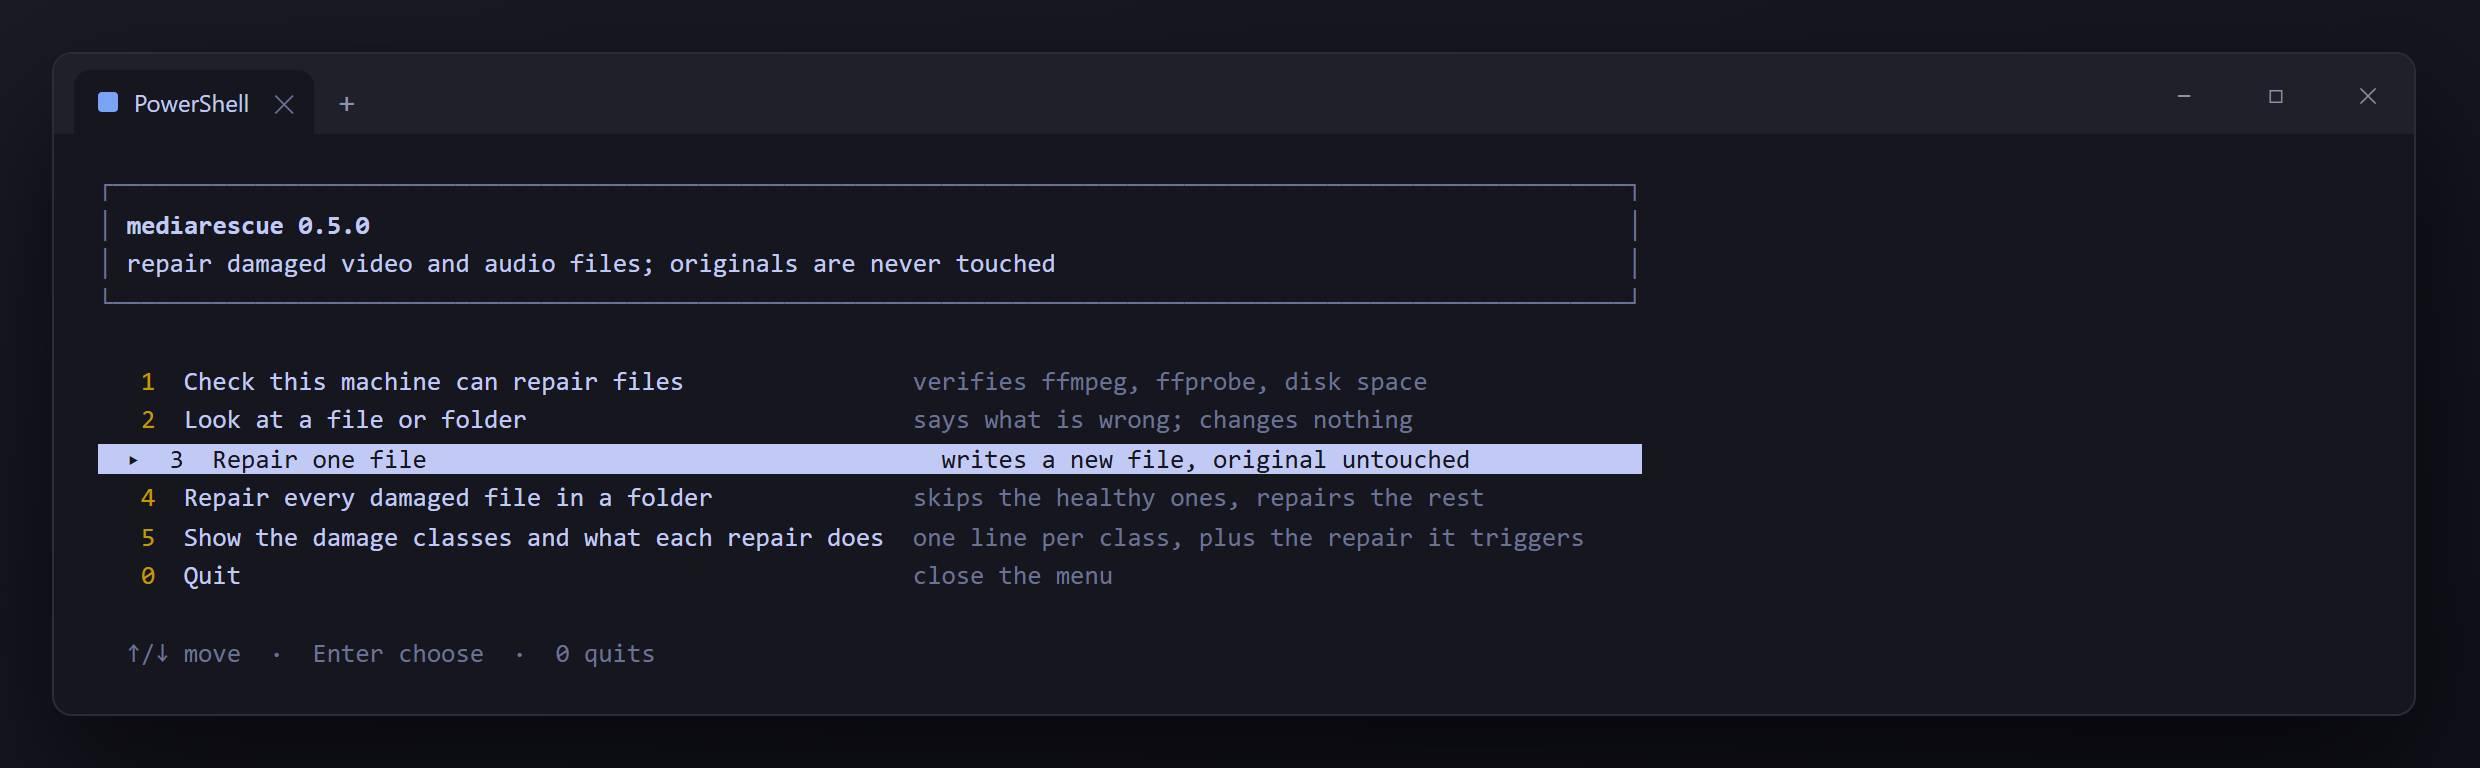
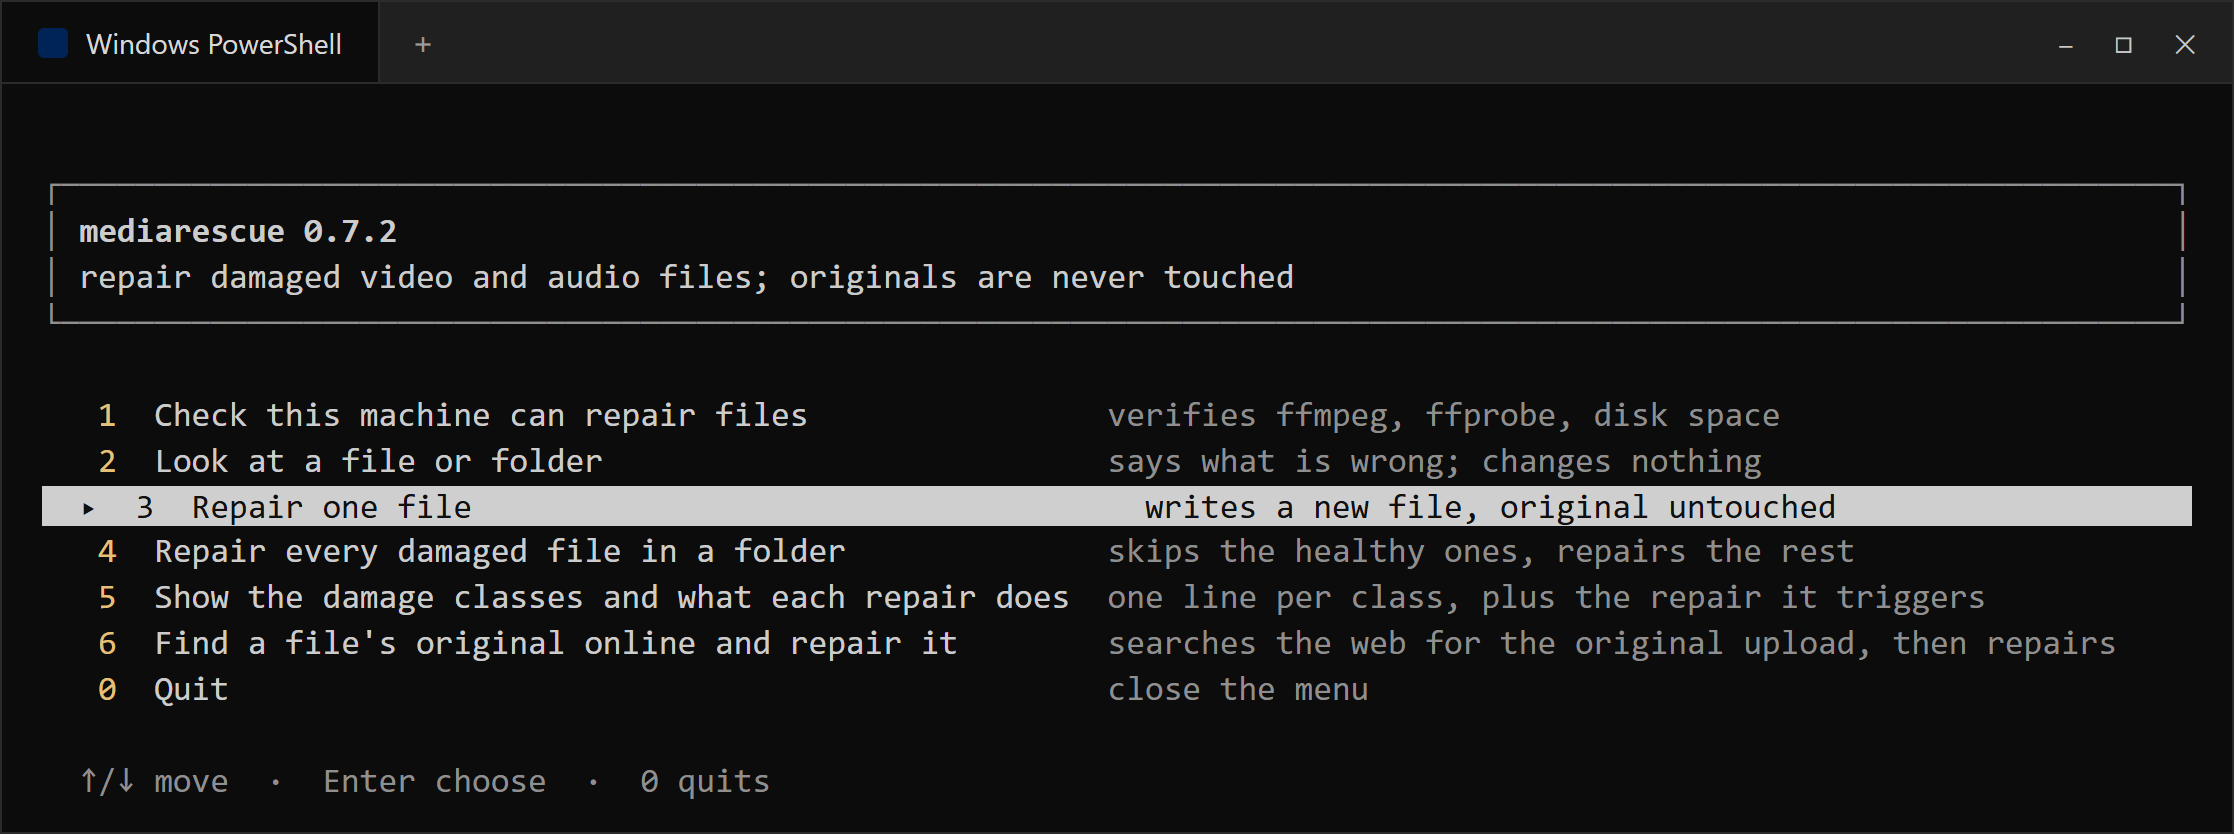
0.8.0: give the menu its arrow keys, and mean --out-dir for one file
The key reader existed, was tested, and was never handed to run_menu(): cmd_menu called it with no
keys argument, so a real terminal got the numbered prompt and the highlighted row never appeared.
The same kind of gap hid in --out-dir, which single-file repairs ignored, and in the Bing fallback,
which caught binascii.Error without importing binascii -- the handler raised NameError inside the
one path it existed to protect.

Also: python -m mediarescue works, --version says the name, --help ends with the first two commands
someone needs, and docs/terminal.png plus docs/menu.png are re-rendered from this build (the old
menu shot still said 0.5.0 and had no online-source row).

diff --git a/src/mediarescue/cli.py b/src/mediarescue/cli.py
@@ -112,8 +112,10 @@ def cmd_doctor(args) -> int:
 
 
 def cmd_menu(args) -> int:
-    from .menu import run_menu
-    return run_menu()
+    from .menu import make_key_reader, run_menu
+    # Without a key reader the menu still works, but only by typing a number and Enter. On a real
+    # terminal this is what makes the arrow keys and the highlighted row live.
+    return run_menu(keys=make_key_reader())
 
 
 def _pick_strategy(severity: Severity, requested: str) -> str:
@@ -257,6 +259,7 @@ def _online_references(src: Path, args):
         return
 
     seen = False
+    found = 0
     for url in same_size[:tries]:
         detail(f"trying {url[:110]}")
         try:
@@ -270,7 +273,11 @@ def _online_references(src: Path, args):
             path.unlink(missing_ok=True)
             continue
         seen = True
-        say(f"  original found: {path.name} ({fetch.describe(path.stat().st_size)}) — {why}")
+        found += 1
+        # The first hit is the one people expect to be "the" original; a second line with the same
+        # wording reads like the tool found it twice.
+        label = "original found" if found == 1 else "another candidate"
+        say(f"  {label}: {path.name} ({fetch.describe(path.stat().st_size)}) — {why}")
         setattr(args, "_online", str(path))
         getattr(args, "_fetched", []).append(path)
         cache[key] = path
@@ -462,9 +469,9 @@ def _fetch_reference(url: str, args) -> Path | None:
         print(paint(f"reference link: {url}", "dim"), file=sys.stderr)
     try:
         path = fetch.download(url, folder, name_hint="reference", report=report)
-    except fetch.FetchError as exc:
+    except fetch.FetchError:
         if not quiet:
-            print("\r" + " " * 60 + "\r", end="")
+                print("\r" + " " * 60 + "\r", end="")
         fetch.cleanup(folder / "reference.mp4")
         raise
     except OSError as exc:
@@ -497,7 +504,16 @@ def _fix_single(src: Path, args) -> int:
         print("ffmpeg/ffprobe not found on PATH", file=sys.stderr)
         return 3
 
-    out = Path(args.out) if args.out else src.with_name(src.stem + ".repaired" + src.suffix)
+    # --out-dir is not batch-only in meaning; someone who typed it for one file meant it, and
+    # quietly writing beside the source instead is the kind of surprise that loses a file.
+    if args.out:
+        out = Path(args.out)
+    elif getattr(args, "out_dir", None):
+        folder = Path(args.out_dir)
+        folder.mkdir(parents=True, exist_ok=True)
+        out = folder / (src.stem + ".repaired" + src.suffix)
+    else:
+        out = src.with_name(src.stem + ".repaired" + src.suffix)
     if not getattr(args, "quiet", False):
         # A 300 MB repair takes minutes; say what is happening instead of going silent.
         chosen, _ = _resolve_strategy(src, d, args)
@@ -637,9 +653,18 @@ def main(argv: list[str] | None = None) -> int:
     # Without this, `not argv` is true for every real invocation and the no-argument shortcut
     # swallows the command line: `mediarescue scan x` would open the menu instead of scanning.
     argv = list(sys.argv[1:] if argv is None else argv)
-    ap = argparse.ArgumentParser(prog="mediarescue",
-                                 description="Diagnose and repair damaged media; originals are never modified.")
-    ap.add_argument("--version", action="version", version=__version__)
+    ap = argparse.ArgumentParser(
+        prog="mediarescue",
+        description="Diagnose and repair damaged media; originals are never modified.",
+        epilog=(
+            "the usual first two commands:\n"
+            "  mediarescue scan D:/broken\n"
+            "  mediarescue fix D:/broken --out-dir D:/fixed\n"
+            "run with no arguments for the menu."
+        ),
+        formatter_class=argparse.RawDescriptionHelpFormatter,
+    )
+    ap.add_argument("--version", action="version", version=f"mediarescue {__version__}")
     sub = ap.add_subparsers(dest="cmd", required=True)
 
     s = sub.add_parser("scan", help="classify damage across files or directories")
@@ -665,7 +690,7 @@ def main(argv: list[str] | None = None) -> int:
     f.add_argument("file", nargs="+",
                    help="one media file, or one or more folders to repair in batch")
     f.add_argument("-o", "--out", help="output file (single input only)")
-    f.add_argument("--out-dir", help="batch: write repaired files into this folder")
+    f.add_argument("--out-dir", help="write repaired files into this folder (one file or a batch)")
     f.add_argument("--force", action="store_true",
                    help="repair files that scan calls healthy instead of skipping them")
     f.add_argument("--quiet", action="store_true",

diff --git a/tests/test_polish.py b/tests/test_polish.py
@@ -1,5 +1,6 @@
 """What the polish changed: a framed menu, arrow keys, honest answers, and no wasted rewrites."""
 import subprocess
+import sys
 
 import pytest
 
@@ -198,3 +199,85 @@ def test_force_still_rewrites_a_healthy_file(tmp_path, capsys):
     out = tmp_path / "out.mp4"
     assert main(["fix", str(src), "-o", str(out), "--force", "--no-color"]) == 0
     assert out.exists()
+
+
+# --- the menu the user actually gets -----------------------------------------------------------
+
+def test_the_menu_gets_a_live_key_reader(monkeypatch):
+    """`run_menu()` with no reader can only be driven by typing a number; the arrow keys live
+    behind make_key_reader(), so cmd_menu has to pass it."""
+    seen = {}
+    monkeypatch.setattr(menu_mod, "make_key_reader", lambda: "READER")
+    monkeypatch.setattr(menu_mod, "run_menu", lambda **kw: seen.update(kw) or 0)
+
+    from mediarescue import cli
+
+    assert cli.cmd_menu(None) == 0
+    assert seen["keys"] == "READER"
+
+
+def test_no_key_reader_off_a_terminal():
+    """Under pytest stdin is not a tty, so the reader must bow out instead of blocking."""
+    from mediarescue.menu import make_key_reader
+
+    assert make_key_reader() is None
+
+
+def test_the_bare_command_line_opens_the_menu(monkeypatch):
+    """`mediarescue` with nothing after it is a terminal user who has not read the README."""
+    class Tty:
+        def isatty(self):
+            return True
+
+        def write(self, text):
+            return len(text)
+
+        def flush(self):
+            pass
+
+    seen = {}
+    monkeypatch.setattr(sys, "stdin", Tty())
+    monkeypatch.setattr(sys, "stdout", Tty())
+    monkeypatch.setattr(menu_mod, "make_key_reader", lambda: "READER")
+    monkeypatch.setattr(menu_mod, "run_menu", lambda **kw: seen.update(kw) or 0)
+
+    assert main([]) == 0
+    assert seen["keys"] == "READER"
+
+
+def test_a_script_gets_help_instead_of_a_menu(capsys):
+    """Nothing may block on input when there is no terminal on either end."""
+    assert main([]) == 2
+    assert "usage: mediarescue" in capsys.readouterr().out
+
+
+# --- small things people type ----------------------------------------------------------------
+
+def test_python_dash_m_reaches_the_same_tool():
+    out = subprocess.run([sys.executable, "-m", "mediarescue", "--version"],
+                         capture_output=True, text=True)
+    assert out.returncode == 0
+    assert out.stdout.startswith("mediarescue ")
+
+
+def test_version_says_what_it_is(capsys):
+    with pytest.raises(SystemExit) as stop:
+        main(["--version"])
+    assert stop.value.code == 0
+    assert capsys.readouterr().out.startswith("mediarescue ")
+
+
+# --- --out-dir means the same thing for one file ----------------------------------------------
+
+@needs_ffmpeg
+def test_out_dir_is_honoured_for_a_single_file(tmp_path, capsys):
+    """`fix file.avi --out-dir out` used to write beside the source and leave `out` empty."""
+    from tests.test_avi import make_avi, shift_entries
+
+    src = tmp_path / "clip.avi"
+    make_avi(src)
+    shift_entries(src)          # a real repair, so the healthy short-circuit cannot mask it
+    out = tmp_path / "collected"
+    assert main(["fix", str(src), "--out-dir", str(out), "--no-color"]) == 0
+    assert (out / "clip.repaired.avi").exists()
+    assert not (tmp_path / "clip.repaired.avi").exists()

diff --git a/tests/test_salvage.py b/tests/test_salvage.py
@@ -16,8 +16,8 @@ needs_ffmpeg = pytest.mark.skipif(not have_ffmpeg(), reason="ffmpeg/ffprobe not 
 def make_clip(path, seconds=4):
     subprocess.run([
         "ffmpeg", "-v", "error", "-y",
-        "-f", "lavfi", "-i", f"testsrc=size=320x240:rate=25",
-        "-f", "lavfi", "-i", f"sine=frequency=440:sample_rate=44100",
+        "-f", "lavfi", "-i", "testsrc=size=320x240:rate=25",
+        "-f", "lavfi", "-i", "sine=frequency=440:sample_rate=44100",
         "-t", str(seconds), "-c:v", "libx264", "-g", "25", "-pix_fmt", "yuv420p",
         "-c:a", "aac", "-b:a", "64k", str(path),
     ], check=True, capture_output=True)

diff --git a/src/mediarescue/source.py b/src/mediarescue/source.py
@@ -18,6 +18,7 @@ and never claims success without a clean decode.
 from __future__ import annotations
 
 import base64
+import binascii
 import json
 import os
 import re
@@ -150,7 +151,7 @@ def parse_bing(html: str) -> list[str]:
             value += "=" * (-len(value) % 4)
             try:
                 target = base64.urlsafe_b64decode(value).decode("utf-8", "replace")
-            except (ValueError, binascii.Error):  # type: ignore[name-defined]
+            except (ValueError, binascii.Error):
                 target = ""
             if target.startswith("http"):
                 urls.append(target)

diff --git a/tests/test_carve.py b/tests/test_carve.py
@@ -4,7 +4,7 @@ import subprocess
 
 import pytest
 
-from mediarescue.carve import carve, extract_annexb, find_stream_start
+from mediarescue.carve import carve
 from mediarescue.cli import main
 from mediarescue.ffmpeg import have_ffmpeg, probe
 from mediarescue.report import Severity

diff --git a/src/mediarescue/__main__.py b/src/mediarescue/__main__.py
@@ -1,0 +1,9 @@
+"""`python -m mediarescue` runs the same entry point as the `mediarescue` script."""
+from __future__ import annotations
+
+import sys
+
+from .cli import main
+
+if __name__ == "__main__":
+    sys.exit(main())

diff --git a/src/mediarescue/graft.py b/src/mediarescue/graft.py
@@ -11,7 +11,7 @@ import struct
 from dataclasses import dataclass
 from pathlib import Path
 
-from .mp4 import Box, find, iter_all, read_boxes
+from .mp4 import Box, iter_all, read_boxes
 
 
 @dataclass

diff --git a/src/mediarescue/__init__.py b/src/mediarescue/__init__.py
@@ -2,5 +2,5 @@
 from .diagnose import diagnose
 from .report import Diagnosis, Severity
 
-__version__ = "0.7.2"
+__version__ = "0.8.0"
 __all__ = ["diagnose", "Diagnosis", "Severity", "__version__"]

diff --git a/tests/test_fetch.py b/tests/test_fetch.py
@@ -1,7 +1,5 @@
 """Reference-by-link: the share hosts, and what must happen when one lies to us."""
 import http.server
-import json
-import os
 import threading
 from pathlib import Path
 

diff --git a/tests/test_av1.py b/tests/test_av1.py
@@ -1,5 +1,4 @@
 """Codec sniffing + av1C construction, checked against a real libaom/dav1d round trip."""
-import shutil
 import subprocess
 
 import pytest

diff --git a/tests/test_core.py b/tests/test_core.py
@@ -1,4 +1,3 @@
-import shutil
 import struct
 import subprocess
 

diff --git a/README.md b/README.md
@@ -15,11 +15,12 @@ heads, fragmented MP4s that lost their init segment, downloads that never finish
 is gone and no intact copy exists anywhere, it can search the web for the original upload and
 repair with that.
 
-![mediarescue in a terminal: scan a folder, then repair an AVI index, a damaged MP3 and a cut-off AVI](docs/terminal.png)
+![mediarescue in a terminal: scan a folder, then repair an AVI index and a cut-off AVI](docs/terminal.png)
 
-The screenshot is a real session: `scan` on a folder holding one healthy MP4, one AVI whose
-`idx1` points at the wrong chunks, one AVI whose index was cut off, and an MP3 damaged mid-file.
-Each repair below it is the CLI's own output, unedited.
+The screenshot is a real session: `scan` on a folder holding one healthy MP4, one healthy MP3, one
+AVI whose `idx1` points at the wrong chunks, and one AVI whose index was cut off. Every line below a
+prompt is the CLI's own output, unedited; the window frame is drawn for the README and the prompt is
+a placeholder (`PS C:\media>` is not a real machine).
 
 ## Install
 
@@ -191,6 +192,10 @@ The JSON also carries `verify`: the repaired file is decoded and `decode_errors`
 repair that writes a file but leaves broken payload exits with `1`, because a playable container
 full of silence is not a fix. Add `--deep` to decode the *input* first (same check as
 `scan --deep`), or `--no-verify` to skip the check on the output.
+
+`-o` names the exact output file. `--out-dir` does the same thing for one file as for a folder: it
+collects the repaired file into that folder under `<name>.repaired.<ext>`, so a batch of one and a
+batch of fifty land in the same place.
 
 **Repairing a whole folder** works the same way — point `fix` at it. Damaged files are repaired,
 healthy ones are left untouched, and the exit code is `1` if anything failed:
